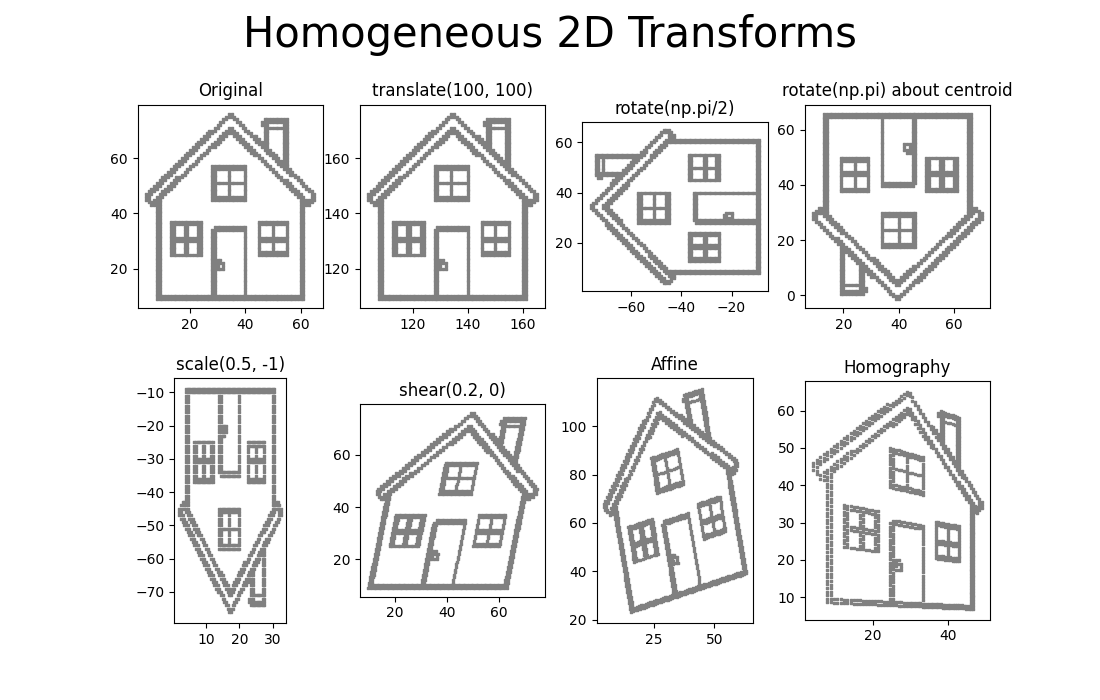
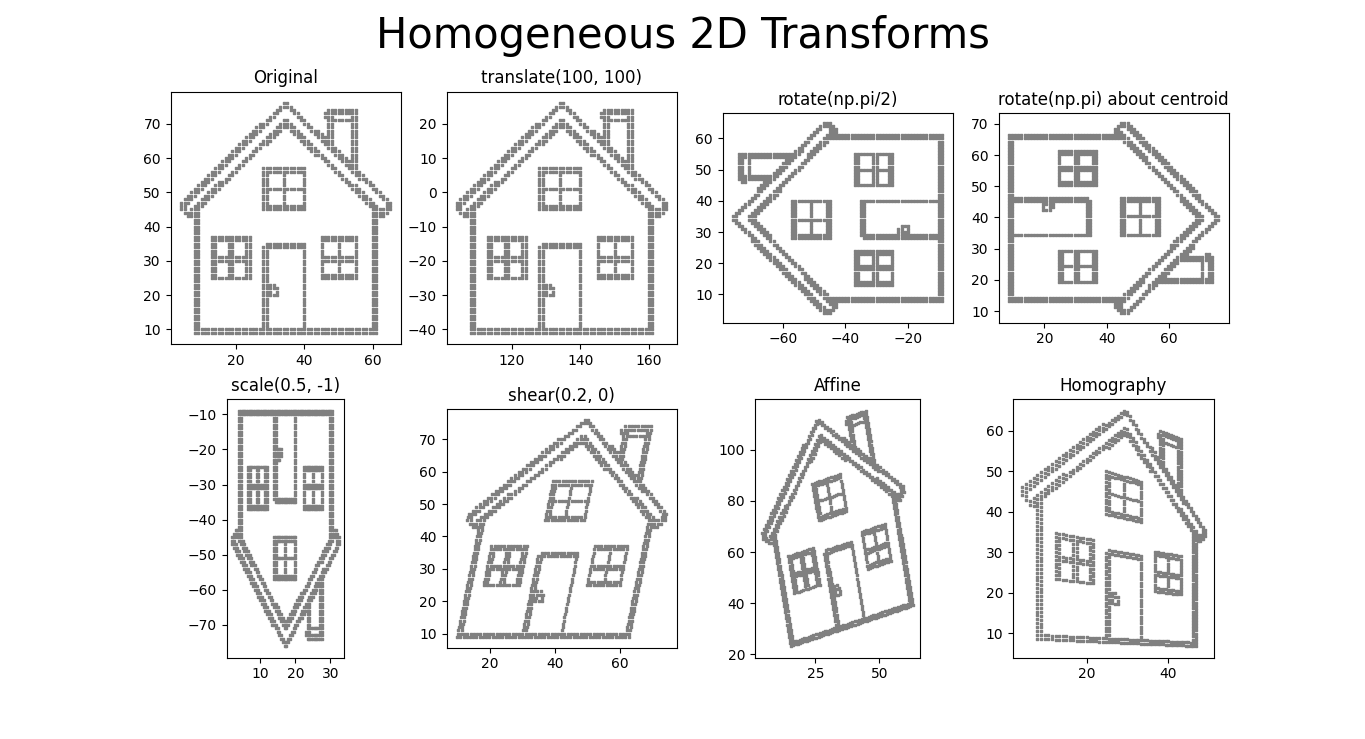
updating lab 2.1

diff --git a/_projects/2.1_2dgeo_homography.md b/_projects/2.1_2dgeo_homography.md
@@ -27,12 +27,12 @@ __Important: You can obtain 3 bonus marks for each section you finish and demo w
 
 ---
 
-## 1. Homogeneous Transforms (20)
-A transformatrion matrix, $$M$$, can be used to transform points in homogeneous form:
+## 1. Homogeneous Transforms (30)
+A transformatrion matrix, $$M$$, can be used to transform 2D points in homogeneous form:
 
 \begin{equation}
 \left(\begin{array}{l}
-\displaylines{x'\\\ y'\\\ 1}
+\displaylines{x'\\\ y'\\\ w}
 \end{array}\right)
 =
 M
@@ -105,21 +105,22 @@ plt.show()
 
 <div class="row justify-content-md-center">
     <div class="col-sm-10 mt-6 mt-md-6">
-        {% include figure.liquid loading="eager" path="assets/img/homogeneous_house.png" title="house subplots" class="img-fluid rounded z-depth-1" %}
+        {% include figure.liquid loading="eager" path="assets/img/house.png" title="house subplots" class="img-fluid rounded z-depth-1" %}
     </div>
 </div>
 <div class="caption">
     Plots of various transformations on the 2D house point cloud.
 </div>
 
-- Create functions that create translation, rotation, scale and shear transformation matricies using the equations provided above. Apply the following transformations to our provided house point cloud and recreate the above figure. __You will lose marks if your house is not at the same coordinates as our figure.__
-  1. Original Point Cloud
-  2. Translate by (100, 100)
-  3. Rotate by +90 degrees
-  4. Rotate by 180 degrees about centroid
-  5. Scale by (0.5, -1)
-  6. Shear by (0.2, 0)
-  7. Affine transformation given `Affine = np.array([[0.9, -0.2, 10], [0.3, 1.2, 10]])`
+- Create functions that create translation, rotation, scale and shear transformation matricies using the equations provided above. Apply the following transformations to our provided house point cloud and recreate the above figure. 
+- __You will lose marks if your house is not at the same coordinates as our figure.__
+  1. Original Point Cloud.
+  2. Translate by (100, -50).
+  3. Rotate by +90 degrees.
+  4. Rotate by -90 degrees about centroid.
+  5. Scale by (0.5, -1).
+  6. Shear by (0.2, 0).
+  7. Affine transformation given `Affine = np.array([[0.9, -0.2, 10], [0.3, 1.2, 10]])`.
   8. Homography transformation given `Homography = np.array([[1, 0, 0], [0, 1, 0], [0.005, 0, 1]])`. Ensure you divide all points by the homogeneous coordinate after applying the transformation.
 
 **Deliverables:**
@@ -136,47 +137,76 @@ plt.show()
     </div>
 </div>
 <div class="caption">
-    Homography street.
+    Homography transforms applied to the house to create a simple street image.
 </div>
 
 - Using a homography transform and our provided point cloud, approximately recreate the above image.
 
 **Deliverables:**
-- Display the image in your report. Describe how you created this image.
+- Display the image in your report. 
 - Save your image to include with your submission.
+
+**Report Question 1b:** Describe how you created this image and the transformations you used.
 
 ### c) Bonus (5) - Adding your own assets
 
 <div class="row justify-content-md-center">
-    <div class="col-sm-6 mt-6 mt-md-6">
-        {% include figure.liquid loading="eager" path="assets/img/shrek.png" title="shrek to point cloud" class="img-fluid rounded z-depth-1" %}
+    <div class="col-sm-10 mt-6 mt-md-6">
+        {% include figure.liquid loading="eager" path="assets/img/gojo.png" title="gojo would pass for sure!" class="img-fluid rounded z-depth-1" %}
     </div>
 </div>
 <div class="caption">
-    Shrek asset.
+    Getting a point cloud from an image.
 </div>
 
 ```python
-def get_point_cloud(image, threshold = 150, width=200):
+import matplotlib.pyplot as plt
+import numpy as np
+import cv2
+
+def get_point_cloud(image, scale = 1):
     if len(image.shape):
         image = cv2.cvtColor(image, cv2.COLOR_BGR2GRAY)
-    dimx = width
-    dimy = int(image.shape[1]/image.shape[0]*dimx)
+    (dimy, dimx) = image.shape
+    dimx = int(dimx*scale)
+    dimy = int(dimy*scale)
     image = cv2.resize(image, (dimx, dimy), interpolation=cv2.INTER_AREA)
-    image[image < threshold] = 0
-    image[image > threshold] = 255
+    _, image = cv2.threshold(image,0,255,cv2.THRESH_BINARY+cv2.THRESH_OTSU)
     y, x = np.nonzero(image == 0)
     x = np.array(x.T)
     y = np.array(-y.T) + dimy
     return x, y
+
+
+gojo = cv2.imread("gojo.jpg")
+scale = 0.5
+gojo_points = get_point_cloud(gojo, scale=scale)
+fig = plt.figure()
+
+ax1 = fig.add_subplot(1, 2, 1)
+plt.imshow(gojo)
+ax1.set_aspect('equal', 'box')
+plt.title("Original")
+
+ax2 = fig.add_subplot(1, 2, 2)
+plt.scatter(gojo_points[0], gojo_points[1], color='gray', s=1, marker='s', linewidths=0)
+ax2.set_aspect('equal', 'box')
+ax2.set_xlim([0, gojo.shape[1]*scale])
+ax2.set_ylim([0, gojo.shape[0]*scale])
+plt.title("Point Cloud")
+
+plt.show()
 ```
 
 - Use the above function to generate point clouds of your own assets. Search up coloring page versions of your favorite characters and load them in.
 - Create a composite image of your own using the transformations you've learned. Load in at least two assets and transform them to create a scene.
+- Note: Large images can create tens of thousands of points. Use scale to reduce the number of points if it hampers performance.
 
 **Deliverables:**
-- Display the image in your report. Describe how you created this image.
+- Display the image in your report.
 - Save your image to include with your submission.
+
+**Report Question 1c:** Describe how you created this image and the transformations you used.
 
 
 ---
@@ -203,7 +233,7 @@ l_1=\left(\begin{array}{c}
 100 \\
 1 \\
 100
-\end{array}\right), \quad l_H=\left(\begin{array}{c}
+\end{array}\right) \quad l_H=\left(\begin{array}{c}
 0 \\
 1 \\
 -100
@@ -227,25 +257,25 @@ Sketch the drawing labelling all three lines and the position of the vanishing p
 </div>
 
 1.  Click on the corners of the field using `matplotlib.pyplot.ginput` or your own mouse callback.
-2.  Convert the points to homogeneous coordinates
-3.  Compute the diagonal lines $$l_1$$ and $$l_2$$ (the line between two points is $$l=p_1\times p_2$$)
-4.  Compute the midpoint, $$p_m$$ using the diagonal lines (the intersection between two lines is $$p=l_1\times l_2$$)
-5.  Compute the vanishing point, $$p_\infty$$ as the intersection of the two short sides of the field
-6.  Compute the midline using the vanishing point and the mid-point
+2.  Convert the points to homogeneous coordinates.
+3.  Compute the diagonal lines $$l_1$$ and $$l_2$$ (the line between two points is $$l=p_1\times p_2$$).
+4.  Compute the midpoint, $$p_m$$ using the diagonal lines (the intersection between two lines is $$p=l_1\times l_2$$).
+5.  Compute the vanishing point, $$p_\infty$$ as the intersection of the two short sides of the field.
+6.  Compute the midline using the vanishing point and the mid-point.
 
 **Deliverables:**
-- Display the image with overlaid features in your report
-- Save the image with overlaid features to include with your submissions
+- Display the image with overlaid features in your report.
+- Save the image with overlaid features to include with your submission.
 
 ### c) Construct the midpoint and midline on a video sequence
-- Place a book with a textured cover on a table and record a video
-- Track the four corners of the book using 4 trackers, initialized by mouse clicks. You can use your own tracker or one of openCV's built in trackers (KCF or MOSSE are good)
-- Use the tracked positions to draw the midline and midpoint on the book
+- Place a book with a textured cover on a table and record a video.
+- Track the four corners of the book using 4 trackers, initialized by mouse clicks. You can use your own tracker or one of openCV's built in trackers (KCF or MOSSE are suitable).
+- Use the tracked positions to draw the midline and midpoint on the book.
 
 **Deliverables:**
 - Save the video with overlaid features to include with your submission.
 
-**Report Question 2b:** What could be one real life use of this process?
+**Report Question 2c:** What could be one real life use of this process?
 
 ### d) Line-to-line constraint
 
@@ -266,14 +296,14 @@ e_{l2l} = y_1 \cdot (y_3 \times y_4) + y_2 \cdot (y_3 \times y_4)
 \end{equation}
 
 - Record a video of two books - rotate and move one of the books while leaving the other still.
-- Track the appropriate points to construct the line to line constraint
-- Overlay the value of the constraint onto the video.
+- Track the appropriate points to construct the line to line constraint.
+- Overlay the value of the constraint and the points/lines we are tracking onto the video.
 - Optional: normalize the points and lines before computing the constraints to avoid overly large numbers.
 
 **Deliverables:**
 - Save the video with overlaid features to include with your submission.
 
-**Report Question 2c:** What happens to the value of our constraint when we bring one line to the other?
+**Report Question 2d:** What happens to the value of our constraint when we bring one line to the other?
 
 ### e) Parallel lines constraint
 
@@ -295,15 +325,15 @@ e_{par} = (l_1 \times l_2) \times (l_3 \times l_4)
 \end{equation}
 
 
-- Use the same video but repeat with the parallel lines constraint
-- This time our constraint is vector valued. Verify that its magnitude decreases when the books are near parallel, and its sign changes when the books cross the point of being parallel.
+- Use the same video but repeat with the parallel lines constraint.
+- This time our constraint is vector valued. Overlay the constraint and the points/lines we are tracking onto the video and verify that its magnitude decreases when the books are near parallel, and its sign changes when the books cross the point of being parallel.
 
 **Deliverables:**
 - Save the video with overlaid features to include with your submission.
 
 ---
 
-## 3. Homography Estimation (50)
+## 3. Homography Estimation (40)
 
 <div class="row justify-content-sm-center">
     <div class="col-sm-4 mt-3 mt-md-0">
@@ -334,7 +364,6 @@ e_{par} = (l_1 \times l_2) \times (l_3 \times l_4)
 
 ### b) Normalization
 - Implement a normalization procedure into your algorithm. Translate the points such that their mean is centred at the origin. Scale the points such that the average euclidean distance to the origin is $$\sqrt 2$$.
-- Graduate students: use principal component analysis to center the points and normalize the variances in different principal axes to unity. 
 - Explore performance of your algorithm with your own pictures.
 
 **Deliverables:**
@@ -342,7 +371,7 @@ e_{par} = (l_1 \times l_2) \times (l_3 \times l_4)
 
 
 **Report Question 3b**
-- After the homography is applied, do the overlapping areas in the two images look exactly the same? Why / why not?
+- After the homography is applied, do the overlapping areas in the two images look exactly the same? Why or why not?
 - Correspondences are not always perfect. What happens if some of the correspondences are incorrect? How can this be handled?
 
 <!-- - This method is being used to align two images of a planar surface. Can it be used to align images of non-planar objects? What conditions need to be met?
@@ -350,7 +379,7 @@ e_{par} = (l_1 \times l_2) \times (l_3 \times l_4)
 
 ---
 
-## 4. Bonus (30) Live - Augmented Reality
+## 4. Bonus (30) Live - Augmented Reality (Insert competition stuff here)
 - Track 4 points on a textured planar surface (e.g. poster, book cover) in a live video.
 - Compute the homography in real time.
 - Project an image onto the surface in the video. Move the camera and verify that the projection stays fixed.
@@ -361,6 +390,7 @@ e_{par} = (l_1 \times l_2) \times (l_3 \times l_4)
 **Report Question 2b:** What could be one real life use of this process?
 
 ---
+
 
 ## Submission Details
 
